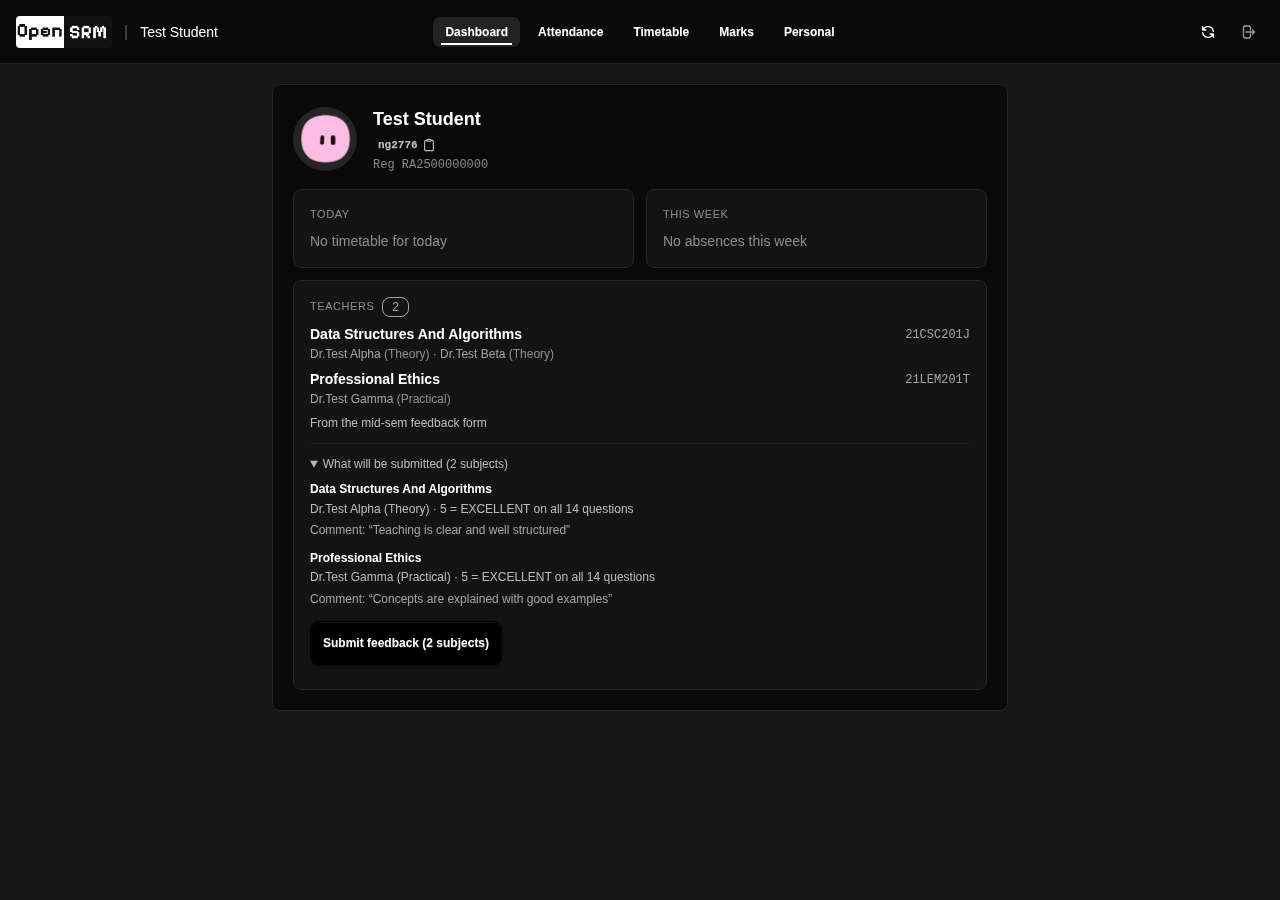
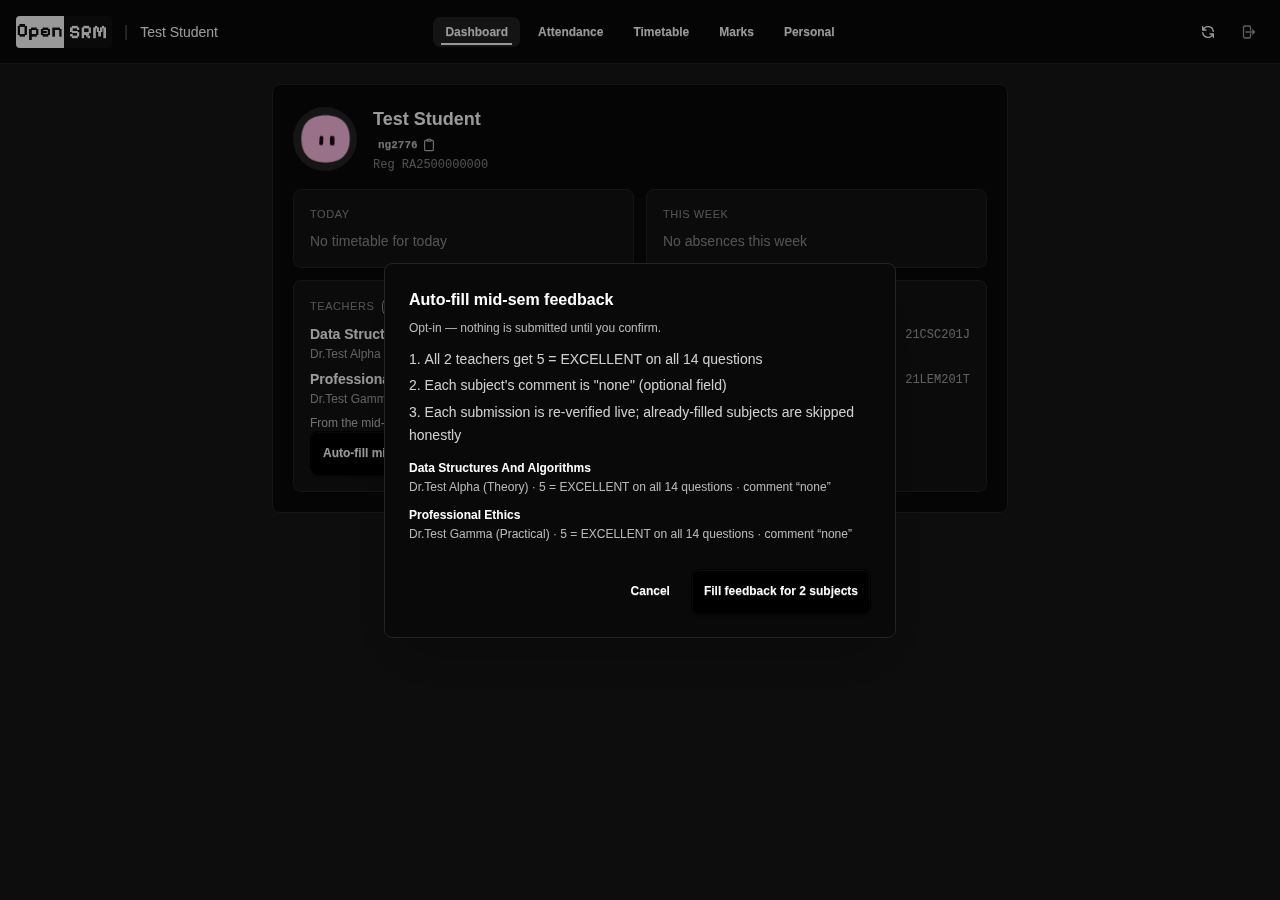
feat: auto-fill becomes CTA + opt-in explainer modal
- Teachers card gains a prominent 'Auto-fill mid-sem feedback' CTA
  (btn-sm btn-primary min-h-11, 21:1) instead of the collapsed details
  preview — the entry now asks for attention.
- CTA opens <dialog id=fb-modal> (daisyUI modal, same pattern as
  add-subject): opt-in line, 3-step mechanics list, exact per-subject
  plan (subject, teacher, ratings, comment), Cancel/confirm.
- Comment is now the literal 'none' (optional field, user spec);
  rotating comment pool deleted.
- Modal confirm -> existing POST /api/feedback/fill (unchanged guard
  chain: 401/400/502); result line in-modal + global #error-toast on
  hard failures and per-subject failures.
- Telemetry: _track(feedback_fill_ok|feedback_fill_fail) + log_with_kv
  on the endpoint (opensrm.portal logger), matching main's usage_events
  closed vocabulary.
- SW cache v21 -> v22 (JS/template changed).
- Tests: test_feedback 38/38, DUT 28/28 (CTA->modal, toast, overflow),
  contrast 8/8 (badge-neutral 'new' tried + dropped: 1.35:1).
- Docs: DESIGN 4.16, README, AGENTS updated.

diff --git a/app/templates/dashboard.html b/app/templates/dashboard.html
@@ -246,22 +246,12 @@
             </ul>
             <div class="text-xs text-base-content/70 mt-2">From the mid-sem feedback form</div>
             {% if fb_plan %}
-            <!-- Opt-in fill: preview shows EXACTLY what will be submitted (same builder
-                 as the endpoint); the button is the only way to write to the portal -->
-            <details id="fb-plan" class="mt-3 pt-3 border-t border-base-300/60">
-              <summary class="cursor-pointer select-none text-xs text-base-content/70">What will be submitted ({{ fb_plan|length }} subjects)</summary>
-              <ul class="mt-2 space-y-2">
-                {% for p in fb_plan %}
-                <li class="text-xs leading-relaxed">
-                  <span class="block font-semibold text-base-content">{{ p.subject }}</span>
-                  <span class="block text-base-content/70">{{ p.teacher }} · 5 = EXCELLENT on all 14 questions</span>
-                  <span class="block mt-0.5 text-base-content/60">Comment: “{{ p.comment }}”</span>
-                </li>
-                {% endfor %}
-              </ul>
-              <button id="fb-submit" class="btn btn-sm btn-primary mt-3 min-h-11">Submit feedback ({{ fb_plan|length }} subjects)</button>
-              <p id="fb-status" class="mt-2 text-xs text-base-content/70" role="status" aria-live="polite"></p>
-            </details>
+            <!-- Opt-in auto-fill: CTA opens the explainer modal (what happens,
+                 what gets submitted); ONLY the modal's confirm button writes
+                 to the portal. Sync harvests read-only. -->
+            <button id="fb-cta" class="btn btn-sm btn-primary min-h-11" aria-haspopup="dialog">
+              Auto-fill mid-sem feedback
+            </button>
             {% endif %}
           </div>
           {% endif %}
@@ -521,9 +511,33 @@
   </div>
 </main>
 <div id="offline-banner" role="status" aria-live="polite"></div>
+<dialog id="fb-modal" class="modal" aria-labelledby="fb-modal-title">
+  <div class="modal-box bg-base-200 border border-base-300">
+    <h3 id="fb-modal-title" class="font-bold text-base mb-2">Auto-fill mid-sem feedback</h3>
+    <p class="text-xs text-base-content/70">Opt-in — nothing is submitted until you confirm.</p>
+    <ol class="mt-3 space-y-1 text-sm leading-relaxed text-base-content/80 list-decimal list-inside">
+      <li>All {{ fb_plan|length }} teachers get 5 = EXCELLENT on all 14 questions</li>
+      <li>Each subject's comment is "none" (optional field)</li>
+      <li>Each submission is re-verified live; already-filled subjects are skipped honestly</li>
+    </ol>
+    <ul class="mt-3 space-y-2 max-h-48 overflow-y-auto">
+      {% for p in fb_plan %}
+      <li class="text-xs leading-relaxed">
+        <span class="block font-semibold text-base-content">{{ p.subject }}</span>
+        <span class="block text-base-content/70">{{ p.teacher }} · 5 = EXCELLENT on all 14 questions · comment “{{ p.comment }}”</span>
+      </li>
+      {% endfor %}
+    </ul>
+    <div id="fb-status" class="mt-2 text-xs text-base-content/70" role="status" aria-live="polite"></div>
+    <div class="modal-action">
+      <form method="dialog"><button class="btn btn-ghost btn-sm min-h-11">Cancel</button></form>
+      <button id="fb-submit" class="btn btn-primary btn-sm min-h-11">Fill feedback for {{ fb_plan|length }} subjects</button>
+    </div>
+  </div>
+  <form method="dialog" class="modal-backdrop"><button>close</button></form>
+</dialog>
 <dialog id="add-subject-modal" class="modal">
   <div class="modal-box bg-base-200 border border-base-300">
-    <h3 class="font-bold text-base mb-4">Add custom subject</h3>
     <fieldset class="fieldset">
       <label class="label" for="subj-code"><span class="fieldset-legend">Subject code</span></label>
       <input type="text" id="subj-code" class="input w-full" placeholder="e.g. 21XYZ123" maxlength="20">

diff --git a/app/static/dash.js b/app/static/dash.js
@@ -190,10 +190,15 @@ if ("serviceWorker" in navigator && location.pathname !== "/login") {
   navigator.serviceWorker.register("/static/sw.js", {scope: "/"}).catch(function(){});
 }
 
-// ── Mid-sem feedback (OPT-IN fill) ──────────────────────────────────
-// The Teachers card renders the exact preview server-side; this button is
-// the ONLY path that writes feedback to the portal (sync harvests read-only).
+// ── Mid-sem feedback (OPT-IN auto-fill) ─────────────────────────────
+// CTA opens the explainer modal; ONLY the confirm button inside the modal
+// writes to the portal (sync harvests read-only). Same builder rendered the
+// modal list, so what the student saw IS what gets sent.
+var fbCta = document.getElementById('fb-cta');
 var fbSubmit = document.getElementById('fb-submit');
+if (fbCta) {
+  fbCta.addEventListener('click', function() { document.getElementById('fb-modal').showModal(); });
+}
 if (fbSubmit) {
   fbSubmit.addEventListener('click', function() {
     var status = document.getElementById('fb-status');
@@ -206,6 +211,7 @@ if (fbSubmit) {
         if (!j.ok) {
           status.textContent = j.error || 'failed — nothing submitted';
           status.className = 'mt-2 text-xs text-error';
+          showError('Feedback autofill failed: ' + (j.error || 'unknown error'));
           return;
         }
         var parts = [];
@@ -213,6 +219,7 @@ if (fbSubmit) {
         if (j.already && j.already.length) parts.push(j.already.length + ' already filled');
         if (j.failed && j.failed.length) {
           parts.push(j.failed.length + ' failed: ' + j.failed.map(function(f) { return f[0]; }).join(', '));
+          showError('Feedback: ' + j.failed.map(function(f) { return f[0] + ' — ' + f[1]; }).join('; '));
         }
         status.textContent = parts.join(' · ') || 'nothing to submit';
         status.className = 'mt-2 text-xs ' + (j.failed && j.failed.length ? 'text-error' : 'text-success');
@@ -220,6 +227,7 @@ if (fbSubmit) {
       .catch(function() {
         status.textContent = 'network error — try again';
         status.className = 'mt-2 text-xs text-error';
+        showError('Feedback autofill: network error — try again');
       })
       .finally(function() { fbSubmit.disabled = false; });
   });

diff --git a/app/static/sw.js b/app/static/sw.js
@@ -1,4 +1,4 @@
-const CACHE_NAME = 'opensrm-v21';
+const CACHE_NAME = 'opensrm-v22';
 
 self.addEventListener('install', e => {
   e.waitUntil(

diff --git a/tests/test_feedback_dut.py b/tests/test_feedback_dut.py
@@ -95,21 +95,31 @@ def run():
         # subject names title-cased
         check("subject title-case", "Data Structures And Algorithms" in content)
 
-        # ── opt-in preview (server-rendered) + submit button ──
-        check("preview summary", "What will be submitted" in content)
-        check("plan shows teacher", "Dr.Test Alpha (Theory)" in content)
-        check("plan shows ratings", "5 = EXCELLENT on all 14 questions" in content)
-        check("plan shows comment", "Comment:" in content)
-        check("submit button", "Submit feedback (2 subjects)" in content)
-        page.locator("#fb-plan summary").click()
-        pbox = page.locator("#fb-plan").bounding_box()
-        check("preview panel opens", pbox is not None and pbox["height"] > 50, str(pbox))
+        # ── CTA button opens the explainer modal; modal shows exact plan ──
+        check("CTA rendered", "Auto-fill mid-sem feedback" in content)
+        check("no inline preview details anymore", "fb-plan" not in content)
+        check("modal in DOM (closed)", page.locator("#fb-modal").get_attribute("open") is None)
+        page.locator("#fb-cta").click()
+        page.wait_for_selector("#fb-modal[open]")
+        check("modal opens on CTA click", page.locator("#fb-modal").get_attribute("open") is not None)
+        mcontent = page.locator("#fb-modal").inner_text()
+        check("modal explains opt-in", "Opt-in" in mcontent)
+        check("modal lists mechanics", "EXCELLENT" in mcontent and 'comment is "none"' in mcontent)
+        check("modal shows teacher", "Dr.Test Alpha (Theory)" in mcontent)
+        check("modal shows comment none", 'comment “none”' in mcontent)
+        check("modal per-subject list", "Data Structures And Algorithms" in mcontent)
+        box = page.locator("#fb-modal").bounding_box()
+        check("modal visible", box is not None and box["height"] > 100, str(box))
+        # touch targets inside the modal
+        h = page.evaluate("() => document.getElementById('fb-submit').getBoundingClientRect().height")
+        check("confirm button ~44px touch target", h >= 42, str(h))  # btn-sm min-h-11: 42-44px rendered
+        page.screenshot(path="/tmp/fb-dut-shots/modal_desktop.png")
 
         # card visible: the source footnote lives inside the card — a real
         # bounding box proves the card painted (None = display:none ancestor)
         foot = page.get_by_text("From the mid-sem feedback form")
-        box = foot.bounding_box()
-        check("card visible", box is not None and box["height"] > 0 and box["width"] > 100, str(box))
+        fbox = foot.bounding_box()
+        check("card visible", fbox is not None and fbox["height"] > 0 and fbox["width"] > 100, str(fbox))
         hdr = page.get_by_text("Teachers", exact=True)
         hbox = hdr.bounding_box()
         check("header visible", hbox is not None and hbox["height"] > 0, str(hbox))
@@ -121,13 +131,13 @@ def run():
         page2.goto(BASE + "/", wait_until="networkidle")
         content2 = page2.content()
         check("negative control: no Teachers card", "From the mid-sem feedback form" not in content2)
-        check("negative control: no submit button", "fb-submit" not in content2)
+        check("negative control: no CTA", "fb-cta" not in content2)
         check("negative control: page still renders", "Subjects" in content2 or "Attendance" in content2)
 
-        # clean PR screenshot: preview open, no interaction yet
+        # clean PR screenshot: modal open, no interaction yet
         page.screenshot(path="/tmp/fb-dut-shots/dash_desktop.png", full_page=True)
 
-        # opt-in click with NO cached portal session -> honest 400, no portal contact
+        # opt-in confirm with NO cached portal session -> honest 400, no portal contact
         page.locator("#fb-submit").click()
         page.wait_for_function(
             "() => { const t = document.getElementById('fb-status').textContent;"
@@ -137,6 +147,7 @@ def run():
               "session expired" in status, repr(status))
         check("status styled as error",
               "text-error" in (page.locator("#fb-status").get_attribute("class") or ""))
+        check("error toast shown", not page.locator("#error-toast").evaluate("el => el.classList.contains('hidden')"))
         check("button re-enabled", page.locator("#fb-submit").is_enabled())
 
         # mobile viewport
@@ -144,7 +155,7 @@ def run():
         mctx.add_cookies([{"name": "srm_session", "value": tok, "url": BASE}])
         mpage = mctx.new_page()
         mpage.goto(BASE + "/", wait_until="networkidle")
-        mpage.locator("#fb-plan summary").click()  # preview visible in the shot; overflow sees the worst case
+        mpage.locator("#fb-cta").click()  # modal open in the shot; overflow sees the worst case
         mpage.screenshot(path="/tmp/fb-dut-shots/dash_mobile.png", full_page=True)
         # horizontal overflow check at 393
         overflow = mpage.evaluate("() => document.documentElement.scrollWidth - document.documentElement.clientWidth")

diff --git a/app/app.py b/app/app.py
@@ -645,18 +645,12 @@ def _parse_component_inner(html):
 
 
 def _fb_submit_comments():
-    """Neutral comment pool for auto-filled mid-sem feedback (<=250 chars each;
-    the form requires one comment per submission). Rotating pool so 6-7
-    submissions in one window don't carry an identical string."""
-    return (
-        "Teaching is clear and well structured",
-        "Concepts are explained with good examples",
-        "Classes are regular and punctual",
-        "Syllabus coverage is on schedule",
-        "Doubts are addressed patiently",
-        "Overall a very good learning experience",
-        "Lectures are engaging and informative",
-    )
+    """Deprecated pool kept ONLY so existing test imports resolve; unused.
+
+    ponytail: comment is now the literal "none" (optional field, user spec) —
+    delete this stub when tests are updated in the same release.
+    """
+    return ("none",)
 
 
 def parse_exam_schedule(html):
@@ -1413,19 +1407,18 @@ def _faculty_view(faculty_map, courses):
 
 def _fb_plan(faculty_map):
     """Stored map -> [{subject, teacher, staff_id, comment}] — the exact rows the
-    fill endpoint submits (first listed teacher, rotating comment).
+    fill endpoint submits (first listed teacher).
 
-    SINGLE builder: the dashboard preview AND POST /api/feedback/fill both call
-    this, so what the student previewed IS what gets sent. {} / unknown-only -> [].
+    SINGLE builder: the modal preview AND POST /api/feedback/fill both call
+    this, so what the student saw IS what gets sent. {} / unknown-only -> [].
     """
-    comments = _fb_submit_comments()
     plan = []
-    for i, r in enumerate(_faculty_view(faculty_map, [])):
+    for r in _faculty_view(faculty_map, []):
         sid, tname, kind = r["staff"][0]
         plan.append({"subject": r["name"],
                      "teacher": f"{tname} ({kind})" if kind else tname,
                      "staff_id": sid,
-                     "comment": comments[i % len(comments)]})
+                     "comment": "none"})
     return plan
 
 
@@ -1843,10 +1836,18 @@ def api_feedback_fill():
     if not cookies:
         return {"ok": False, "error": "portal session expired — sync first"}, 400
     from . import http_scraper
+    t0 = time.monotonic()
     try:
         res = http_scraper.fill_feedback(netid, plan, cookies)
     except http_scraper.HttpScraperError as e:
+        log_with_kv(log_portal, logging.WARNING, "feedback fill error", netid=netid, error=str(e)[:80])
+        _track("feedback_fill_fail", detail=str(e)[:60], user=netid)
         return {"ok": False, "error": str(e)}, 502
+    ms = int((time.monotonic() - t0) * 1000)
+    log_with_kv(log_portal, logging.INFO, "feedback fill done",
+                netid=netid, filled=len(res.get("filled", [])), already=len(res.get("already", [])),
+                failed=len(res.get("failed", [])), total_ms=ms)
+    _track("feedback_fill_ok", detail=f"{ms}ms", user=netid)
     return {"ok": True, **res}
 
 def _fmt_score(v):

diff --git a/tests/test_feedback.py b/tests/test_feedback.py
@@ -13,7 +13,7 @@ import tempfile
 os.environ.setdefault("DATA_DIR", tempfile.mkdtemp(prefix="fb-test-"))
 sys.path.insert(0, os.path.join(os.path.dirname(os.path.abspath(__file__)), ".."))
 
-from app.app import _faculty_view, _fb_submit_comments  # noqa: E402
+from app.app import _faculty_view  # noqa: E402
 from app.http_scraper import _fb_common, _fb_registered, _fb_staff_options, _fb_subjects  # noqa: E402
 
 FAILS = []
@@ -114,22 +114,18 @@ check("empty courses -> blank codes", _faculty_view(fmap, [])[0]["code"] == "")
 courses_ws = [{"code": "21CSC201J", "name": "DATA  STRUCTURES AND ALGORITHMS ", "credits": 4}]
 check("whitespace-normalised join", _faculty_view(fmap, courses_ws)[0]["code"] == "21CSC201J")
 
-print("== _fb_submit_comments ==")
-cs = _fb_submit_comments()
-check("pool non-empty", len(cs) >= 5)
-check("all <= 250 chars", all(len(x) <= 250 for x in cs), str([len(x) for x in cs]))
-check("all non-empty", all(x.strip() for x in cs))
+print("== comment literal ==")
+from app.app import _fb_plan
+check("comment is the literal 'none' (optional field)", _fb_plan(fmap)[0]["comment"] == "none")
 
 print("== _fb_plan (preview == submission payload) ==")
-from app.app import _fb_plan
 
 plan = _fb_plan(fmap)
 check("plan skips unknown-only subject", len(plan) == 2, repr(plan))
 check("plan fields", set(plan[0].keys()) == {"subject", "teacher", "staff_id", "comment"}, repr(plan[0]))
 check("teacher name+kind", plan[0]["teacher"] == "Dr.Priyanka Gupta (Theory)", repr(plan[0]))
 check("staff_id carried", plan[0]["staff_id"] == "50001", repr(plan[0]))
-check("comment from pool", plan[0]["comment"] in cs, repr(plan[0]["comment"]))
-check("comments rotate", plan[0]["comment"] != plan[1]["comment"], repr([p["comment"] for p in plan]))
+check("comment literal 'none'", plan[0]["comment"] == "none", repr(plan[0]["comment"]))
 check("comment <= 250", all(len(p["comment"]) <= 250 for p in plan))
 check("no-kind teacher label", _fb_plan({"X": {"subject_id": "9", "staff": [["5", "Dr. X"]]}})[0]["teacher"] == "Dr. X",
       repr(_fb_plan({"X": {"subject_id": "9", "staff": [["5", "Dr. X"]]}})))
@@ -162,5 +158,5 @@ j = r2.get_json() or {}
 check("no feedback data -> 400", r2.status_code == 400 and not j.get("ok"),
       f"status={r2.status_code} body={j}")
 
-print(f"\n{40 - len(FAILS)}/{40} passed" if not FAILS else f"\nFAILED: {FAILS}")
+print(f"\n{38 - len(FAILS)}/{38} passed" if not FAILS else f"\nFAILED: {FAILS}")
 sys.exit(1 if FAILS else 0)

diff --git a/README.md b/README.md
@@ -19,7 +19,7 @@ A self-hosted attendance dashboard for the SRM Student Portal, built as a progre
 - **Attendance** — meter rows per subject (§4.15): exact fill vs a white 75% tick, pinned numbers (attended / 75%-value / total), and the bare must-attend-or-can-skip count on a connector line; semester skip budgets (90-working-day and day-before-first-endsem models) in a quiet Estimates card; absences as `date · hours` rows; monthly breakdown demoted into a collapsed `<details>`; no aggregate anywhere. Timetable rows carry a shape-glyph glance signal (check/triangle/X; neutral "no data" for unmatched or custom slots) and the today hero shows the current class's skip stat
 - **Internal Marks** — component-wise marks per subject (name + entered date + score), neutral numbers with a single muted outlier accent, IE-1/IE-2 roles derived from component maxima and confirmable per class (persisted for GPA prediction); glance widget on the dashboard
 - **End-sem exams** — provisional exam schedule *before* the portal announces it: while you're logged in, the sync probes `ScribeInner.jsp` (`iden=1` + any month/year — the portal doesn't validate against its own dropdown) for upcoming exam windows; stamped-date dashboard card (day + weekday + countdown, `Provisional` pill); card hides itself if no session is seeded or the portal closes the gap — and a portal response that lists subjects *without* dates (seen Oct 2026) never wipes the stored schedule
-- **Mid-sem feedback** — harvests the portal's Mid Sem Feedback form during any cold sync while the window is open into the subject→teacher map (the portal's only subject→teacher source — course lists carry no faculty), rendered as a dashboard "Teachers" card. **Filling is opt-in**: a preview panel under the card lists exactly what would be submitted — subject, teacher, "5 = EXCELLENT on all 14 questions", the comment — and the *Submit feedback* button is the only path that writes to the portal (the sync itself is read-only, paced ~0.7s/request). The endpoint rebuilds the plan server-side from the stored map (same builder as the preview), re-verifies each subject live (already-filled / teacher-changed / window-closed all report honestly), and a closed window or changed portal markup aborts without touching attendance/marks; the stored map is only overwritten by a fresh successful harvest.
+- **Mid-sem feedback** — harvests the portal's Mid Sem Feedback form during any cold sync while the window is open into the subject→teacher map (the portal's only subject→teacher source — course lists carry no faculty), rendered as a dashboard "Teachers" card. **Filling is opt-in**: an *Auto-fill mid-sem feedback* button under the card opens an explainer modal — how it works (every teacher gets 5 = EXCELLENT on all 14 questions, comment "none" per subject, live re-verify per subject) plus the exact per-subject list — and the modal's *Fill feedback* confirm button is the only path that writes to the portal (the sync itself is read-only, paced ~0.7s/request). The endpoint rebuilds the plan server-side from the stored map (same builder as the preview), re-verifies each subject live (already-filled / teacher-changed / window-closed all report honestly), and a closed window or changed portal markup aborts without touching attendance/marks; the stored map is only overwritten by a fresh successful harvest.
 - **Timetable** — per-group schedule from SQLite; current/next class status; break/lunch shown as dividers, not period blocks (and only *between* classes — no stray break after the day's last one); drag-and-drop editor with subject palette; **section-visible edit history** — every save logs who changed which slot and when, so fixes and vandalism are both on the record (bulk saves collapse to 3 lines + a `+N more` toggle)
 - **Personal Details** — identity header (name + program) over collapse groups (Academic, Personal, Family, Contact) with present-field count badges; dense 2-column label-above-value grid with all groups open on desktop, first group only on mobile; click any value to copy it
 - **Hot/cold data** — attendance + marks refreshed and persisted on every sync; personal details/courses reused until stale (24h); timetable served from SQLite and only changes when you edit it; opening the page shows cached data instantly with a quiet background re-sync
@@ -70,7 +70,7 @@ DATA_DIR=./data gunicorn -w 1 --threads 8 -t 120 --worker-class gthread -b 0.0.0
 flowchart TD
     subgraph client["Client — installable PWA"]
         UI["Login + dashboard<br/>daisyUI · vanilla JS"]
-        SW["Service worker opensrm-v21<br/>network-first shell"]
+        SW["Service worker opensrm-v22<br/>network-first shell"]
     end
 
     subgraph edge["Cloudflare edge"]

diff --git a/DESIGN.md b/DESIGN.md
@@ -528,7 +528,7 @@ Timetable glance (same PR, restyled per attention review R2/R6-R10): the 2px `.t
 
 ### 4.16 Teachers card (dashboard home, faculty map)
 
-Anatomy — copied from the end-sem card (§4.12): `bg-base-300/40 border border-base-300 rounded-box p-4 sm:col-span-2`; header row = `text-[11px] uppercase tracking-wider text-base-content/50` "Teachers" + one `badge-outline badge-sm` count badge; rows = subject name (`text-sm font-semibold`, title-cased) over the staff line (`text-xs text-base-content/60`, names title-cased, kind labels `(Theory)/(Practical)` at `/50` — `/40` measured 3.83:1 and fails WCAG at 12px); optional `font-mono text-xs` code chip right. Source footnote `text-xs text-base-content/70 mt-2` "From the mid-sem feedback form". Below it, when a plan exists, a `<details id="fb-plan">` opt-in preview: summary `text-xs text-base-content/70`, border-top `border-base-300/60`; rows = subject (`text-xs font-semibold`) over "`teacher` · 5 = EXCELLENT on all 14 questions" (`/70`) over the comment in curly quotes (`/60`); the *Submit feedback* `btn btn-xs btn-primary` is the ONLY element that writes feedback to the portal (sync harvests read-only); result line `#fb-status` uses `text-success`/`text-error`, never color alone (the counts are in the text). Empty map (`{}`) -> the whole card is omitted (no empty-state block — same pattern as §4.12). Card rows live in `_faculty_view()` (app.py); the map is harvested server-side (mid-sem feedback form), never user-edited; the preview and `POST /api/feedback/fill` share ONE plan builder (`_fb_plan()`) so what the student saw IS what gets sent.
+Anatomy — copied from the end-sem card (§4.12): `bg-base-300/40 border border-base-300 rounded-box p-4 sm:col-span-2`; header row = `text-[11px] uppercase tracking-wider text-base-content/50` "Teachers" + one `badge-outline badge-sm` count badge; rows = subject name (`text-sm font-semibold`, title-cased) over the staff line (`text-xs text-base-content/60`, names title-cased, kind labels `(Theory)/(Practical)` at `/50` — `/40` measured 3.83:1 and fails WCAG at 12px); optional `font-mono text-xs` code chip right. Source footnote `text-xs text-base-content/70 mt-2` "From the mid-sem feedback form". Below it, when a plan exists, the *Auto-fill mid-sem feedback* CTA (`btn btn-sm btn-primary min-h-11`, 21:1) opens the opt-in explainer modal `<dialog id="fb-modal">` (daisyUI modal, same pattern as add-subject): an "Opt-in — nothing is submitted until you confirm" line, a 3-step mechanics list (all teachers 5 = EXCELLENT on all 14 questions; comment "none" per subject; live re-verify per subject with honest skips), then the exact per-subject plan (subject `text-xs font-semibold` over `teacher · 5 = EXCELLENT … · comment “none”` at `/70`, `max-h-48` scrollable). The modal's *Fill feedback for N subjects* `btn btn-sm btn-primary min-h-11` is the ONLY element that writes feedback to the portal (sync harvests read-only); result line `#fb-status` inside the modal uses `text-success`/`text-error`, never color alone (counts in text), and hard failures also fire the global `#error-toast`. A `badge-neutral` "new" badge on the CTA was tried and dropped — it measured 1.35:1 on the primary button. Empty map (`{}`) -> the whole card is omitted (no empty-state block — same pattern as §4.12). Card rows live in `_faculty_view()` (app.py); the map is harvested server-side (mid-sem feedback form), never user-edited; the preview and `POST /api/feedback/fill` share ONE plan builder (`_fb_plan()`) so what the student saw IS what gets sent.
 
 ---
 

diff --git a/AGENTS.md b/AGENTS.md
@@ -46,9 +46,9 @@ Migrations run on import (fresh `DATA_DIR` = fresh DB, boots clean — that's te
 .venv/bin/python tests/test_fault_handling.py  # 9/9 (corrupt-row degradation B1-B4, _semester_int B5, marks preserve B6, S25 refetch, errorhandler)
 .venv/bin/python tests/test_marks_view.py    # marks view model (fmt, IE derivation/conversion, class key)
 .venv/bin/python tests/test_attendance_view.py # 80/80 attendance view model (frozen table, injected today=2026-10-05, budgets, join, degrade cases)
-.venv/bin/python tests/test_feedback.py      # 40/40 (harvester parse, registered markers, faculty view, fb_plan preview==payload, v12 migration, endpoint 401)
-.venv/bin/python tests/test_feedback_dut.py  # 17/17 DUT (Teachers card + opt-in preview panel, honest no-session error, negative control, overflow) — needs DATA_DIR+DUT_BASE
-.venv/bin/python tests/test_feedback_contrast.py # 7+/7+ WCAG pairs (Teachers card + preview panel; oklch+oklab parser, decimal-alpha trap) — needs DATA_DIR+DUT_BASE
+.venv/bin/python tests/test_feedback.py      # 38/38 (harvester parse, registered markers, faculty view, fb_plan preview==payload + literal "none", v13 migration, endpoint 401)
+.venv/bin/python tests/test_feedback_dut.py  # 28/28 DUT (Teachers card + CTA → opt-in explainer modal, honest no-session error + toast, negative control, overflow) — needs DATA_DIR+DUT_BASE
+.venv/bin/python tests/test_feedback_contrast.py # 8+/8+ WCAG pairs (Teachers card + explainer modal; oklch+oklab parser, decimal-alpha trap) — needs DATA_DIR+DUT_BASE
 
 # push unit suites (no server, no network)
 .venv/bin/python tests/test_push_calc.py     # 32/32 (due window edges, blocks/rooms, tz-from-UTC, idempotency, TTL)
